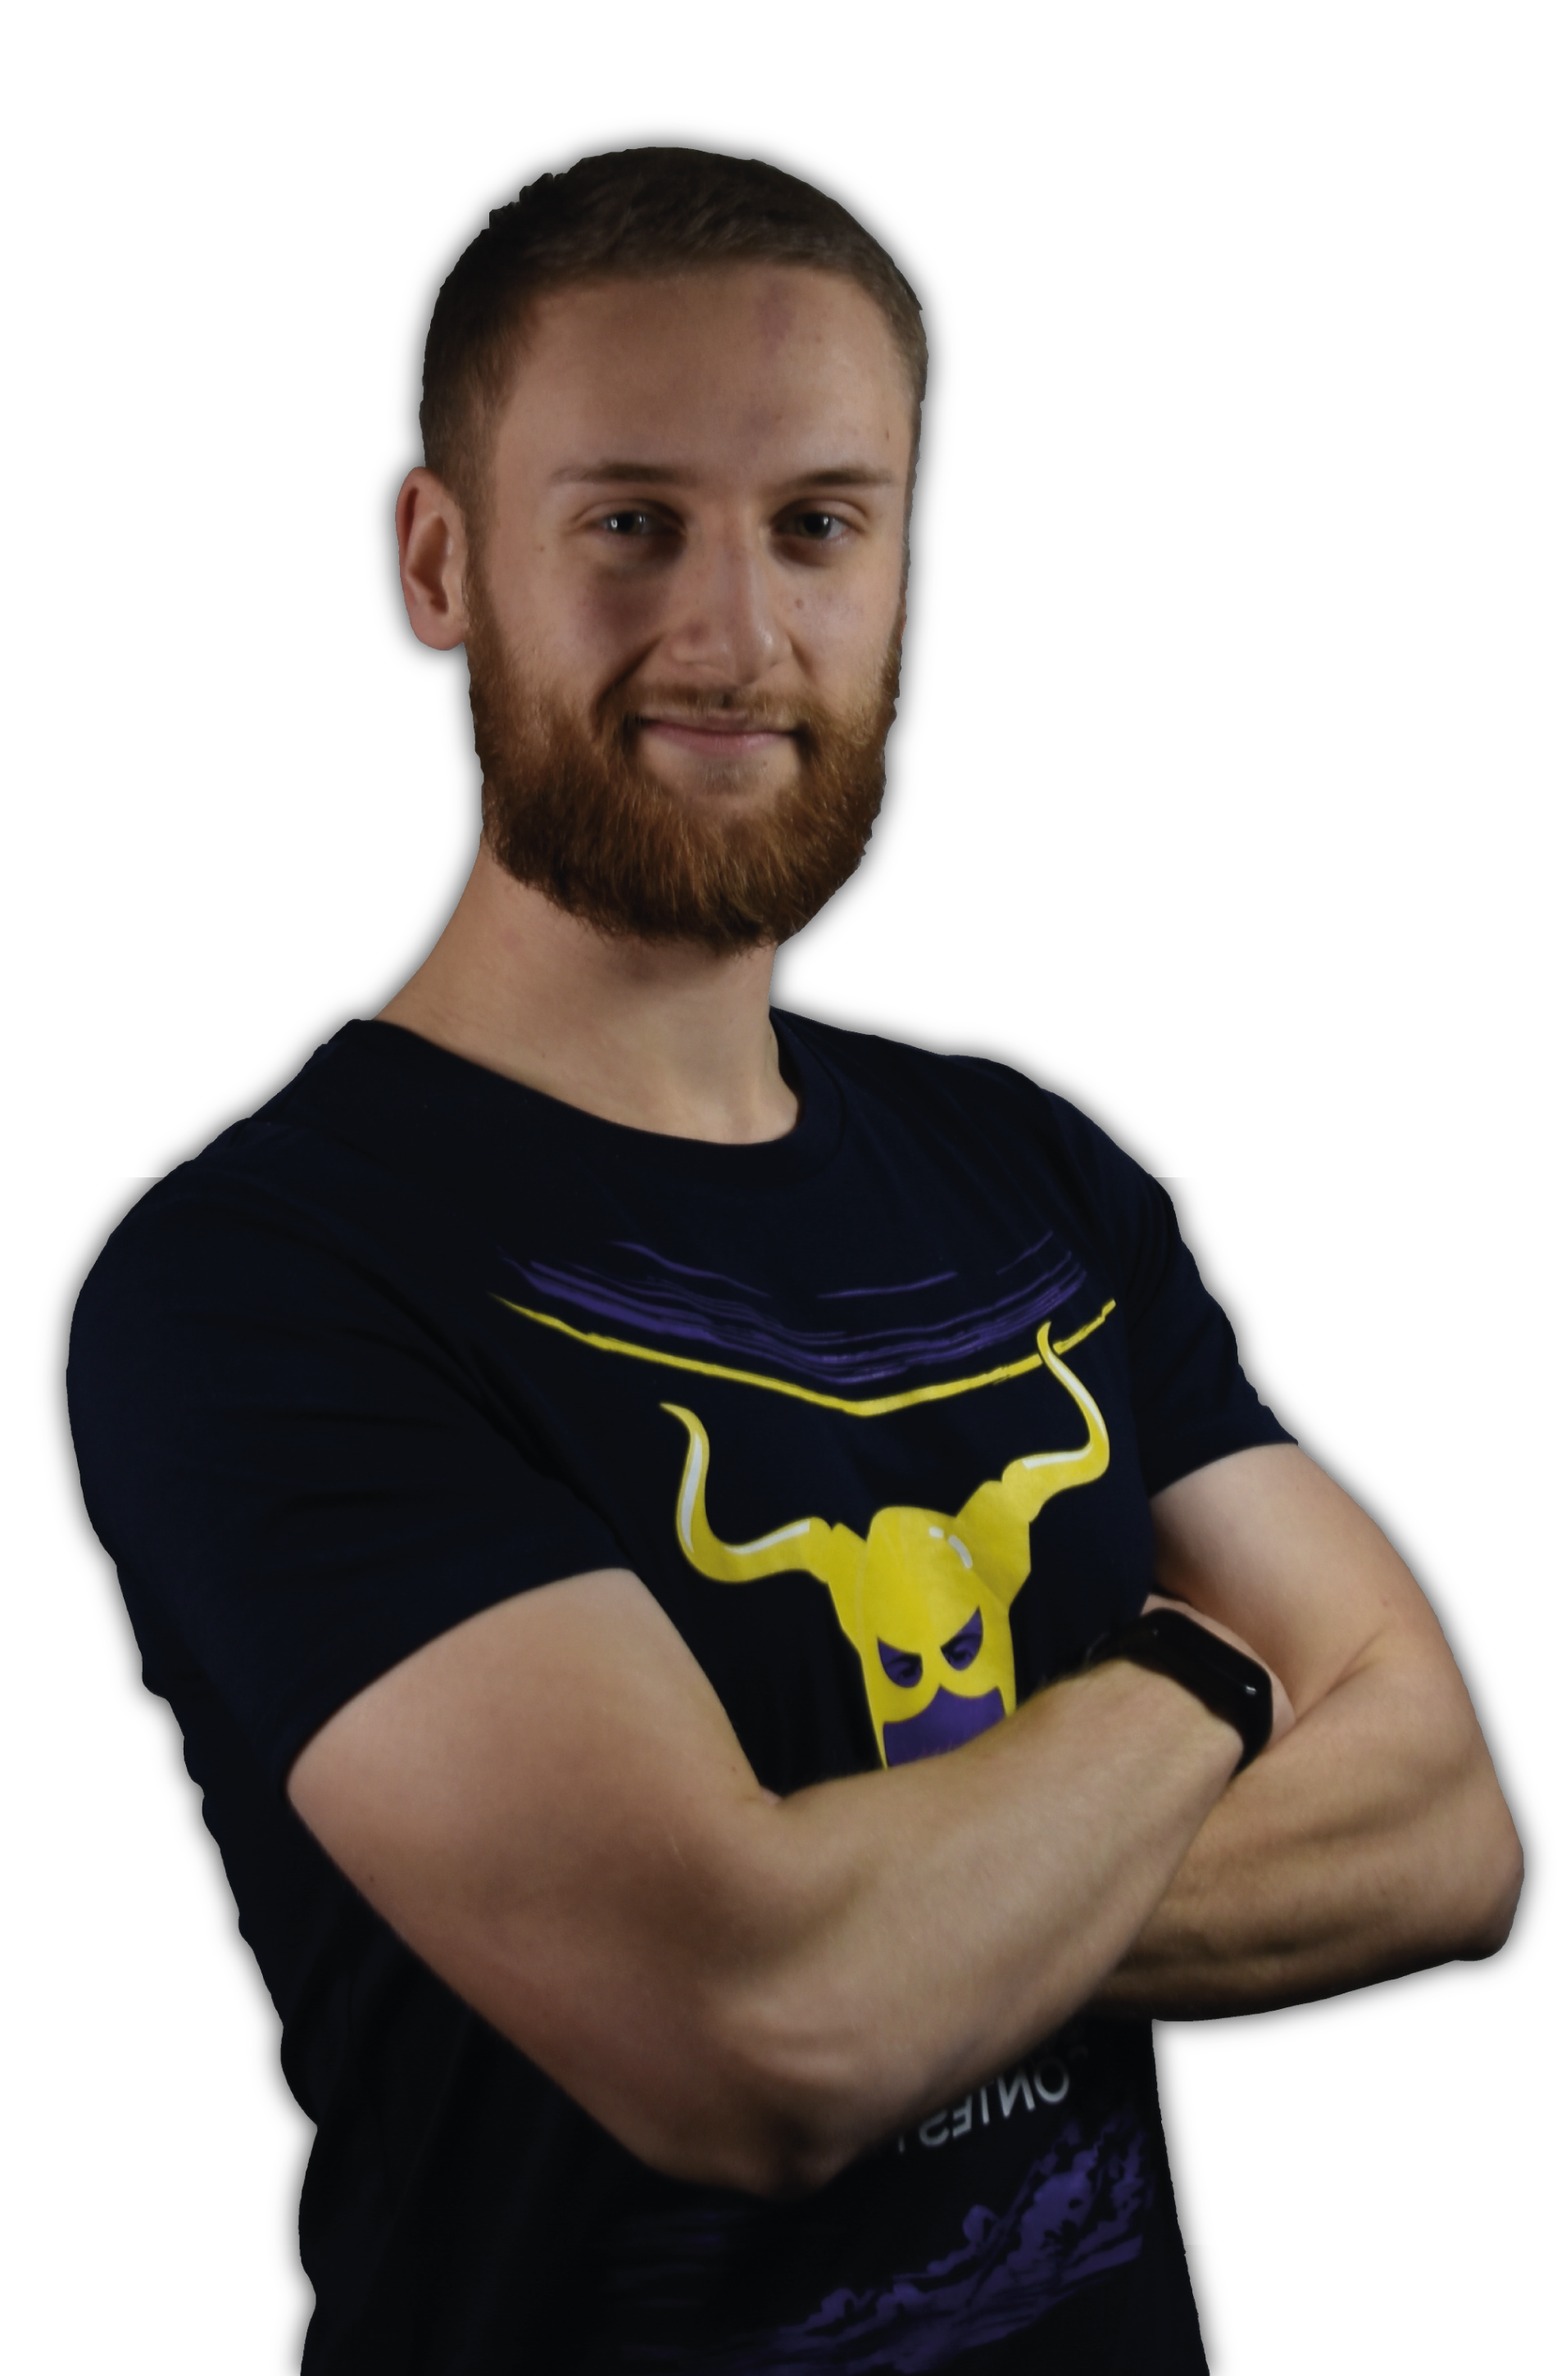
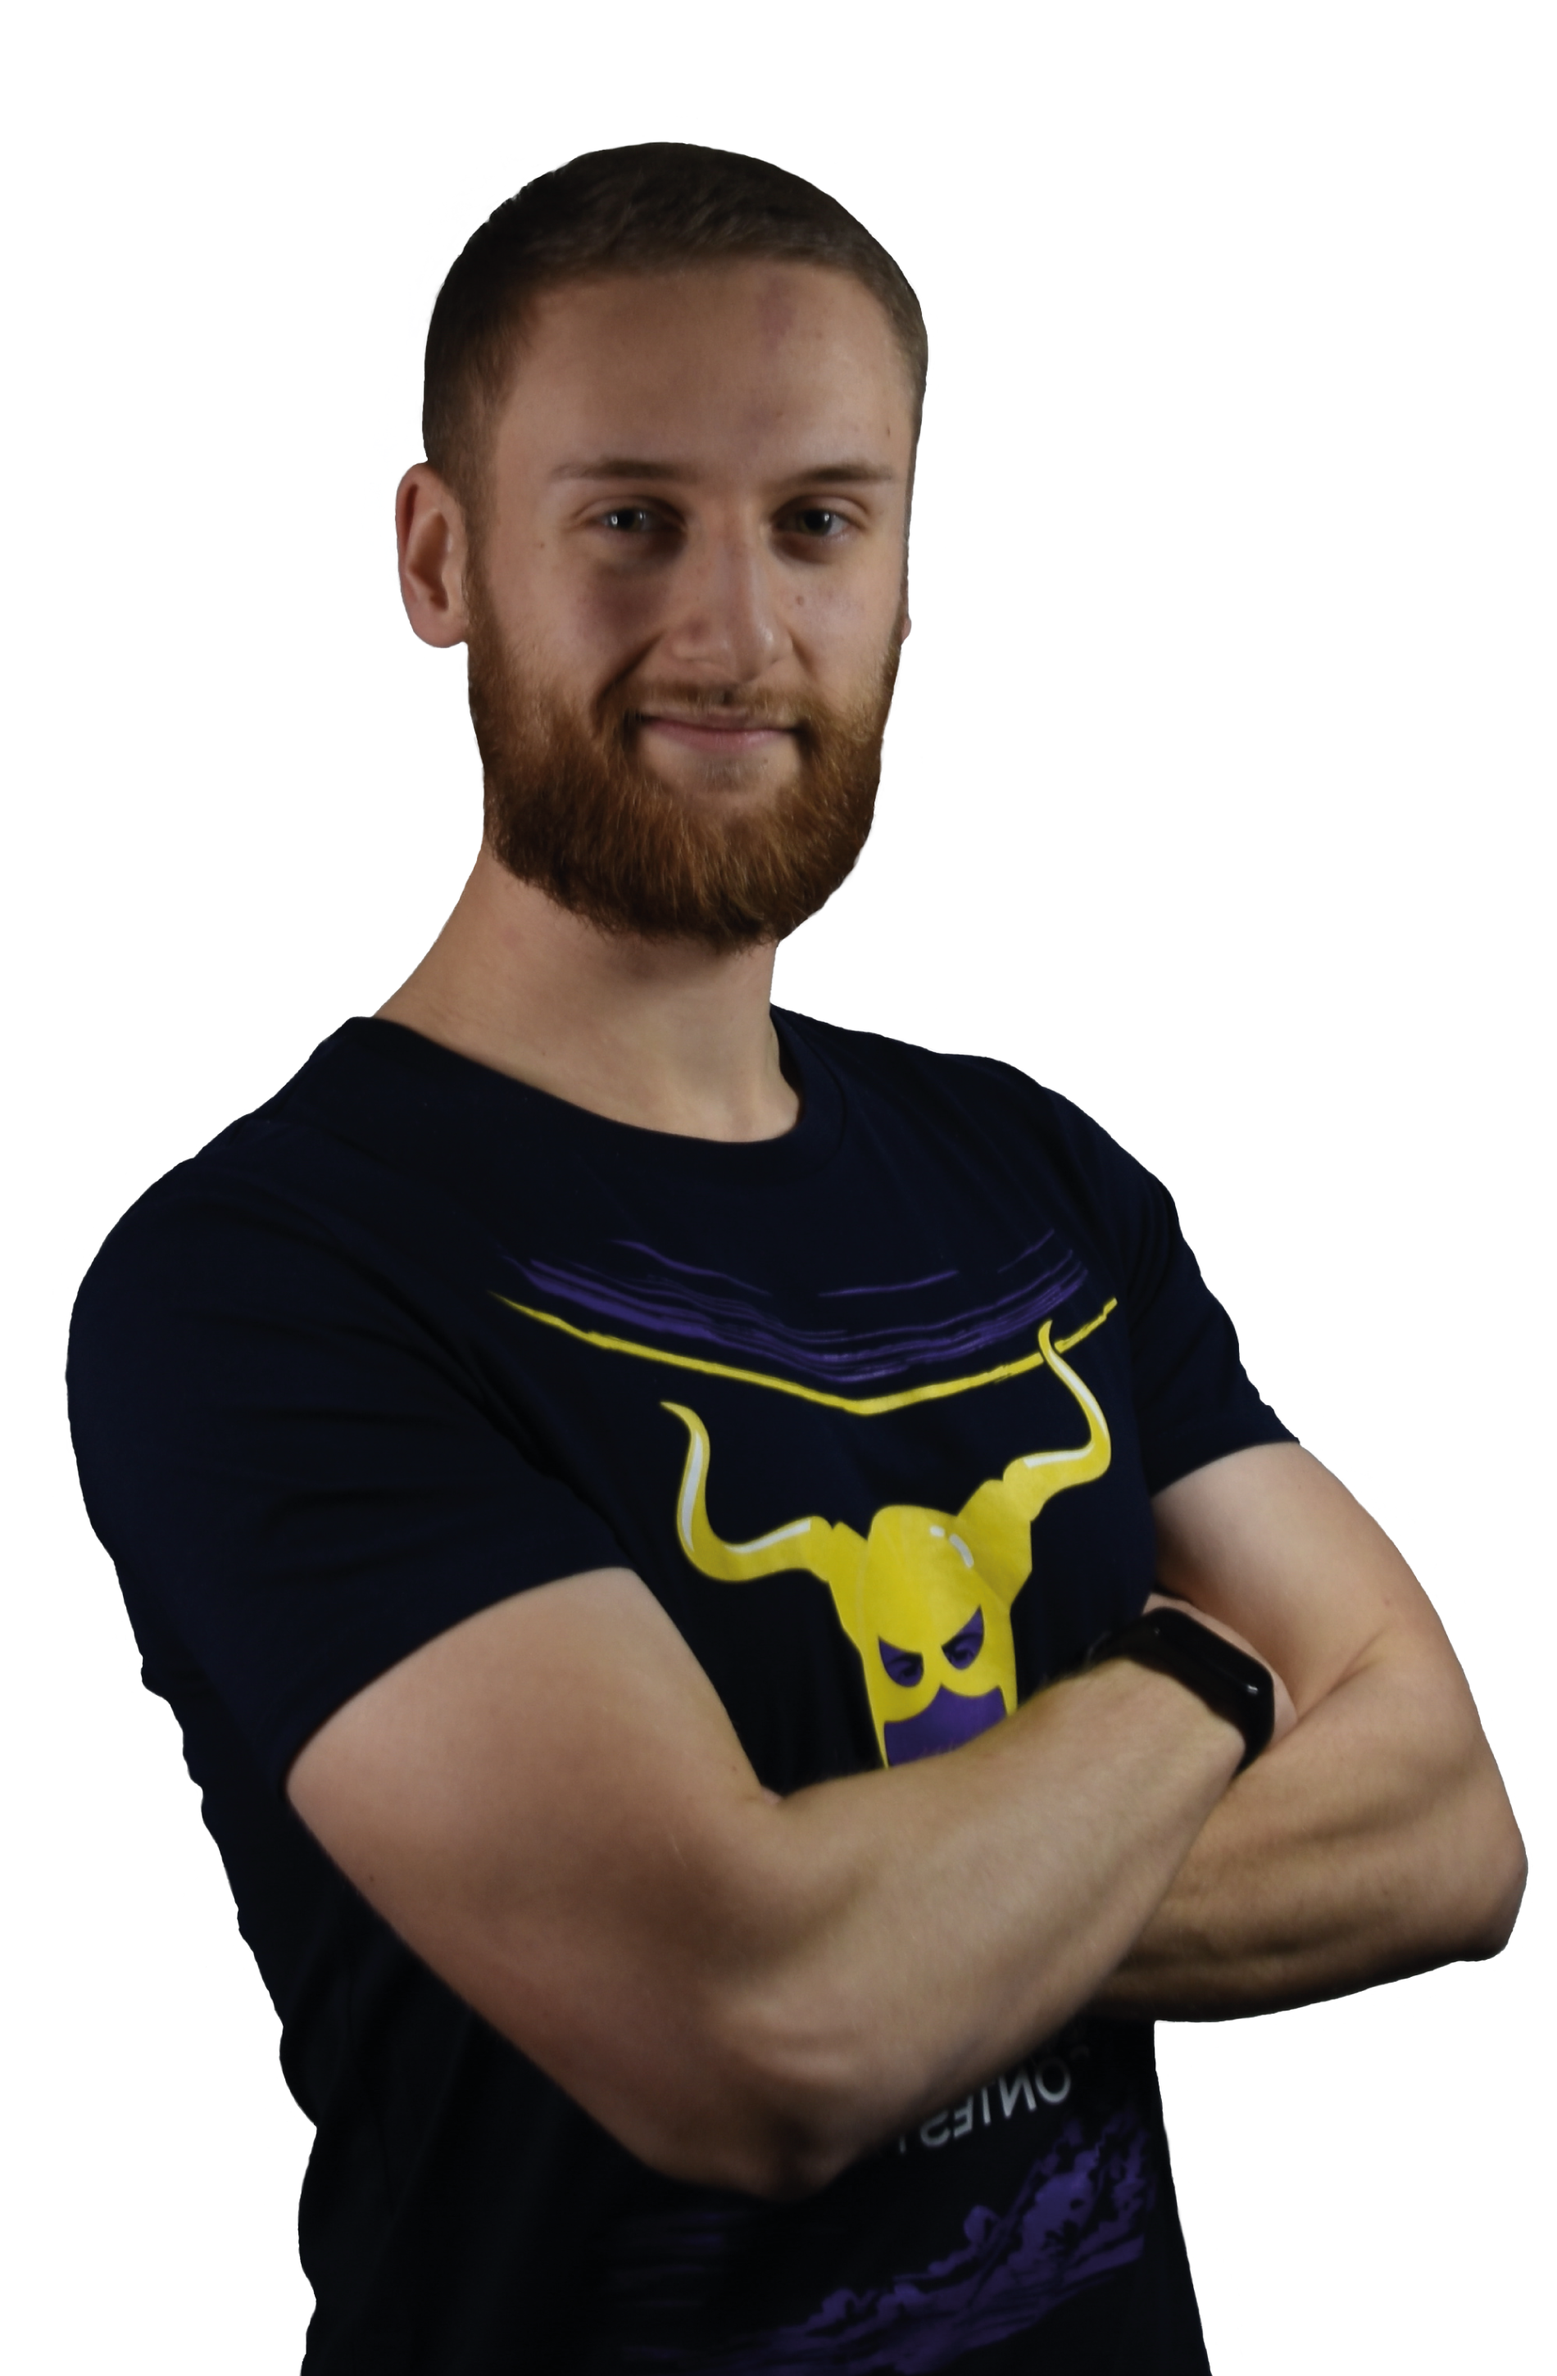
Fixed loader scroll bug (#2)
* Implemented loader animation

* Fixed loader scroll bug and updated hero photo

diff --git a/frontend/styles/style.css b/frontend/styles/style.css
@@ -12,6 +12,11 @@
   scroll-behavior: smooth;
 }
 
+body {
+  overflow-y: hidden; /* hide during page load */
+  background-color: var(--bg-dark);
+}
+
 section.light {
   background-color: var(--bg-light);
 }

diff --git a/frontend/scripts/loader.js b/frontend/scripts/loader.js
@@ -1,3 +1,4 @@
 window.onload = () => {
+  document.body.style.overflowY = "auto";
   document.querySelector(".loader-overlay").classList.add("hidden");
 };
